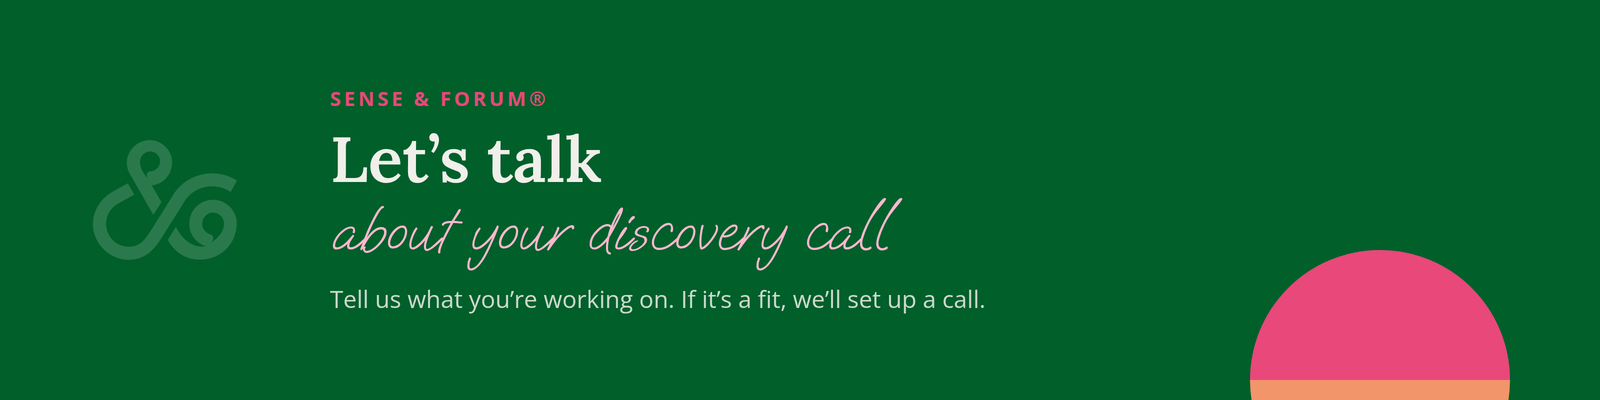
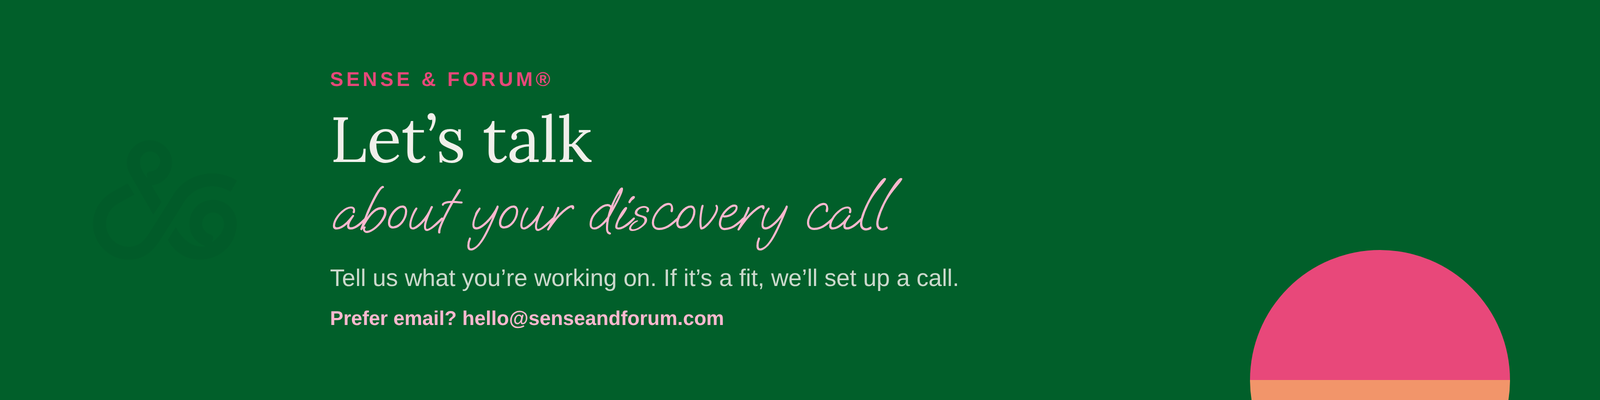
Center the contact form embed, link Advisory Retainer to Serena's site
- Add margin: 0 auto to .form-embed so the Google Form card is
  centered in its column instead of flush-left with dead space to
  the right
- Turn the Advisory Retainer mention in Service 02's closing note
  into an actual link to serenagasparini.com/advisory-and-board/,
  and center that line
- Refresh the discovery-call Google Forms header banner to add a
  "Prefer email? hello@senseandforum.com" line

Claude-Session: https://claude.ai/code/session_01VfYD3xxHNVDA6miGCq3kMu

diff --git a/app/services/page.js b/app/services/page.js
@@ -72,8 +72,21 @@ export default function ServicesPage() {
                 </div>
               </div>
               {service.closingNote && (
-                <p className="desc" style={{ fontStyle: "italic" }}>
+                <p
+                  className="desc"
+                  style={{ fontStyle: "italic", textAlign: "center" }}
+                >
                   {service.closingNote}
+                  {service.closingNoteLinkHref && (
+                    <a
+                      href={service.closingNoteLinkHref}
+                      target="_blank"
+                      rel="noopener noreferrer"
+                    >
+                      {service.closingNoteLinkText}
+                    </a>
+                  )}
+                  {service.closingNoteLinkHref && "."}
                 </p>
               )}
               <div className="meta">

diff --git a/lib/content.js b/lib/content.js
@@ -50,8 +50,9 @@ export const services = [
       "You need someone full-time and in-house, every day",
       "You're looking for a one-off project with a fixed end date (see Launch Partner)",
     ],
-    closingNote:
-      "Prefer strategic input from Serena directly, without the embedded team? See her Advisory Retainer.",
+    closingNote: "Prefer strategic input from Serena directly, without the embedded team? See her ",
+    closingNoteLinkText: "Advisory Retainer",
+    closingNoteLinkHref: "https://serenagasparini.com/advisory-and-board/",
   },
   {
     number: "03",

diff --git a/app/globals.css b/app/globals.css
@@ -1830,6 +1830,7 @@ a.trust-bar-logo-card:focus-visible {
 /* Contact form */
 .form-embed {
   max-width: 700px;
+  margin: 0 auto;
   border: 1.5px solid var(--deep-green);
   border-radius: 20px;
   overflow: hidden;
